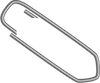
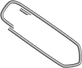
smaller paperclip

diff --git a/views/stylesheets/resume.scss b/views/stylesheets/resume.scss
@@ -10,11 +10,11 @@
 
     #clip {
       background: url("/images/paperclip.png") no-repeat scroll 0 0 transparent;
-      width: 100px;
-      height: 83px;
+      width: 82px;
+      height: 68px;
       position: absolute;
-      top: -20px;
-      left: -18px;
+      top: -16px;
+      left: -15px;
     }
 
     p {
